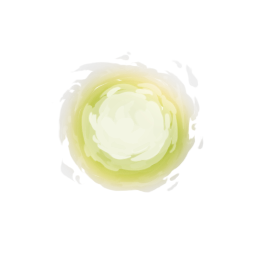
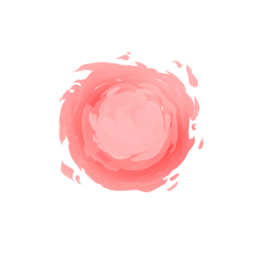
Added Bloodrush and orb vfx

Changed region(s): [[0.2188, 0.1875, 0.8125, 0.75]]

diff --git a/src/main/java/writhingmasscharactermod/cards/uncommon/Bloodrush.java b/src/main/java/writhingmasscharactermod/cards/uncommon/Bloodrush.java
@@ -1,0 +1,44 @@
+package writhingmasscharactermod.cards.uncommon;
+
+import com.megacrit.cardcrawl.actions.AbstractGameAction;
+import com.megacrit.cardcrawl.actions.common.ApplyPowerAction;
+import com.megacrit.cardcrawl.actions.common.DamageAction;
+import com.megacrit.cardcrawl.actions.common.GainEnergyAction;
+import com.megacrit.cardcrawl.cards.AbstractCard;
+import com.megacrit.cardcrawl.cards.DamageInfo;
+import com.megacrit.cardcrawl.characters.AbstractPlayer;
+import com.megacrit.cardcrawl.monsters.AbstractMonster;
+import com.megacrit.cardcrawl.powers.ThornsPower;
+import writhingmasscharactermod.cards.BaseCard;
+import writhingmasscharactermod.character.WrithingMassCharacter;
+import writhingmasscharactermod.util.CardStats;
+
+public class Bloodrush extends BaseCard {
+    public static final String ID = makeID("Bloodrush");
+    private static final CardStats info = new CardStats(
+            WrithingMassCharacter.Meta.CARD_COLOR,
+            CardType.SKILL,
+            AbstractCard.CardRarity.UNCOMMON,
+            AbstractCard.CardTarget.SELF,
+            0
+    );
+
+    private static final int BLOODRUSH_ENERGY = 2;
+    private static final int UPG_BLOODRUSH_ENERGY = 1;
+
+    private static final int MAGIC_NUMBER = 4;
+    private static final int UPG_MAGIC_NUMBER = 2;
+
+    public Bloodrush() {
+        super(ID, info);
+
+        setMagic(MAGIC_NUMBER, UPG_MAGIC_NUMBER);
+        setCustomVar("bloodrushgain", BLOODRUSH_ENERGY, UPG_BLOODRUSH_ENERGY);
+    }
+
+    @Override
+    public void use(AbstractPlayer p, AbstractMonster m) {
+        addToBot(new DamageAction(p, new DamageInfo(p, magicNumber, DamageInfo.DamageType.NORMAL), AbstractGameAction.AttackEffect.SLASH_HORIZONTAL));
+        addToBot(new GainEnergyAction(customVar("bloodrushgain")));
+    }
+}

diff --git a/src/main/java/writhingmasscharactermod/util/WrithingMassOrb.java b/src/main/java/writhingmasscharactermod/util/WrithingMassOrb.java
@@ -11,6 +11,7 @@ import org.lwjgl.util.vector.Vector2f;
 import static writhingmasscharactermod.WrithingMassCharacterMod.characterPath;
 
 public class WrithingMassOrb extends CustomEnergyOrb {
+    private static final String vfxPath = characterPath("energyorb/vfx.png");
     private static final String emptyVfxPath = characterPath("energyorb/emptyVfx.png");
     private static final float ORB_IMG_SCALE;
 
@@ -28,7 +29,7 @@ public class WrithingMassOrb extends CustomEnergyOrb {
     public WrithingMassOrb() {
         super(null, null, null);
 
-        orbVfx = ImageMaster.loadImage(emptyVfxPath);
+        orbVfx = ImageMaster.loadImage(vfxPath);
 
         layers[0] = ImageMaster.loadImage(characterPath("energyorb/layer0.png"));
         layers[1] = ImageMaster.loadImage(characterPath("energyorb/layer1.png"));
